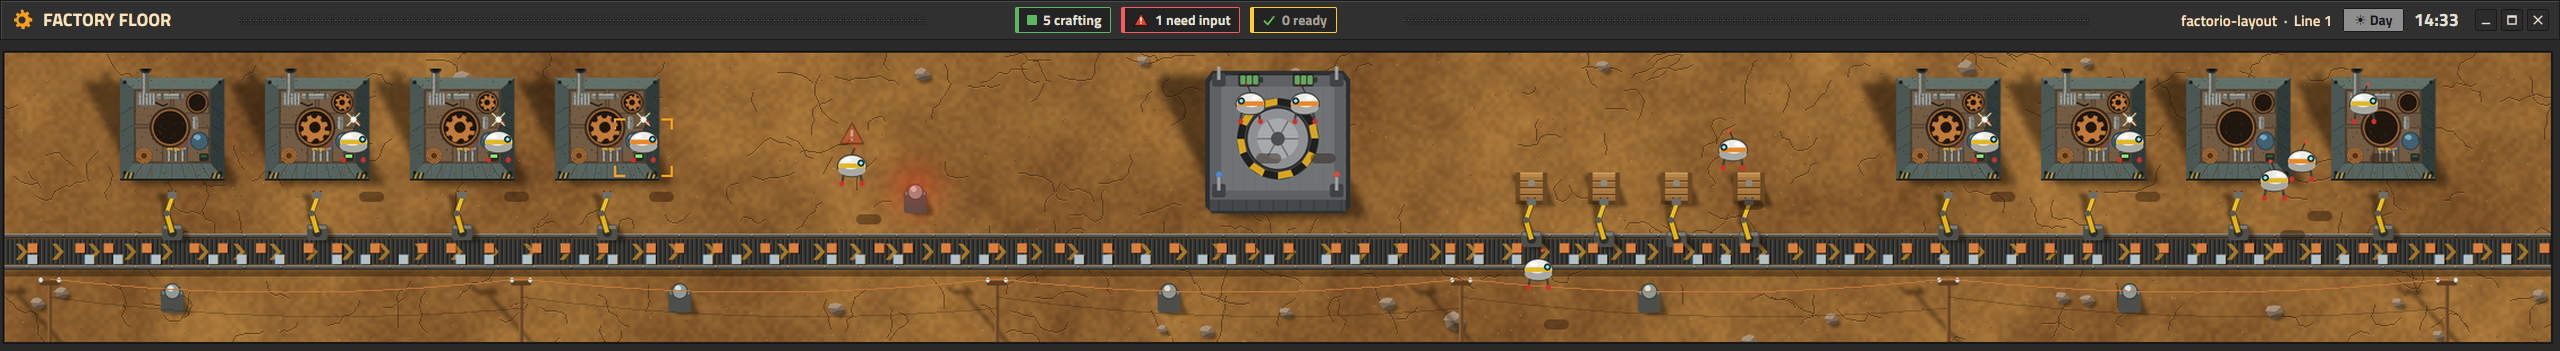
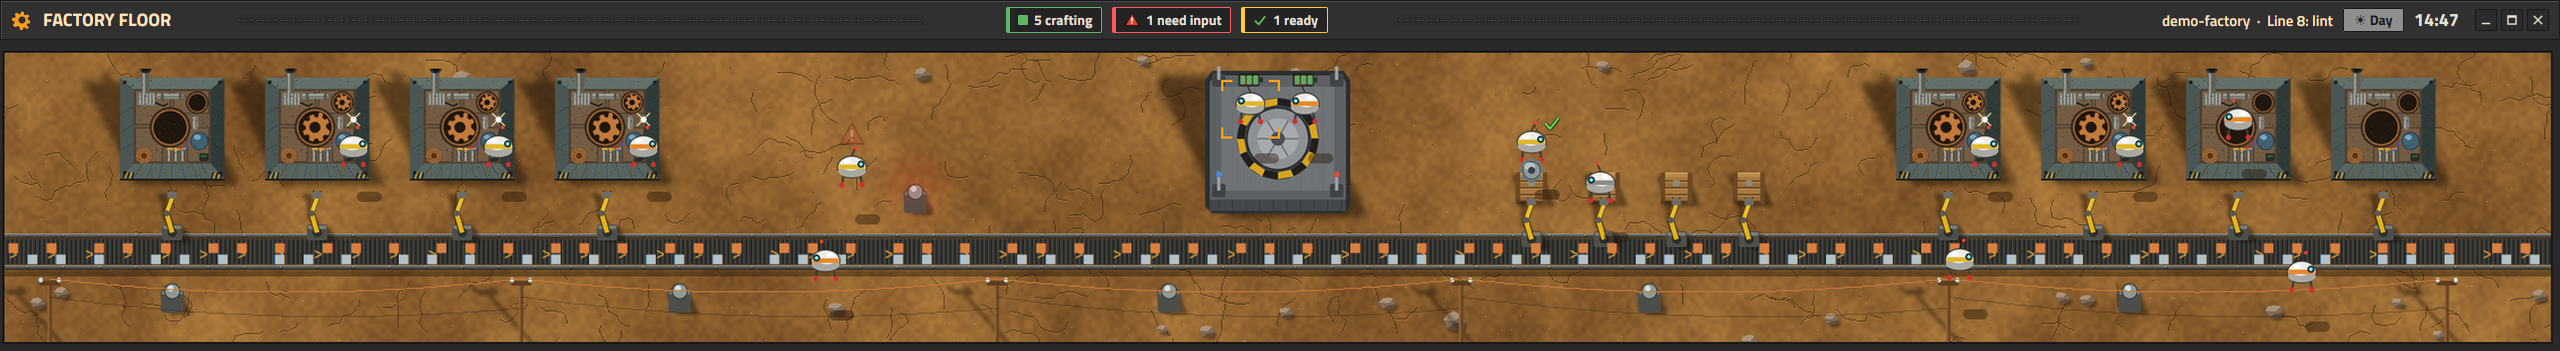
docs: refresh preview with the moving belt arrows
Also brighten the arrows so they read over the plates.

diff --git a/mods/factory/floor.js b/mods/factory/floor.js
@@ -59,7 +59,7 @@ const row = (top, frames, colour, opacity, bold = false) =>
 
 /** The chevrons, then each lane of plates; at night they fade toward the dark. */
 const belt = (dark) => [
-  row(BELT_Y + 6, CHEVRONS, "#b5892a", 0.75 - dark * 0.45, true),
+  row(BELT_Y + 6, CHEVRONS, "#d9a332", 0.95 - dark * 0.5, true),
   ...LANES.map((l) => row(l.top, l.frames, l.colour, 1 - dark * 0.55)),
 ];
 
